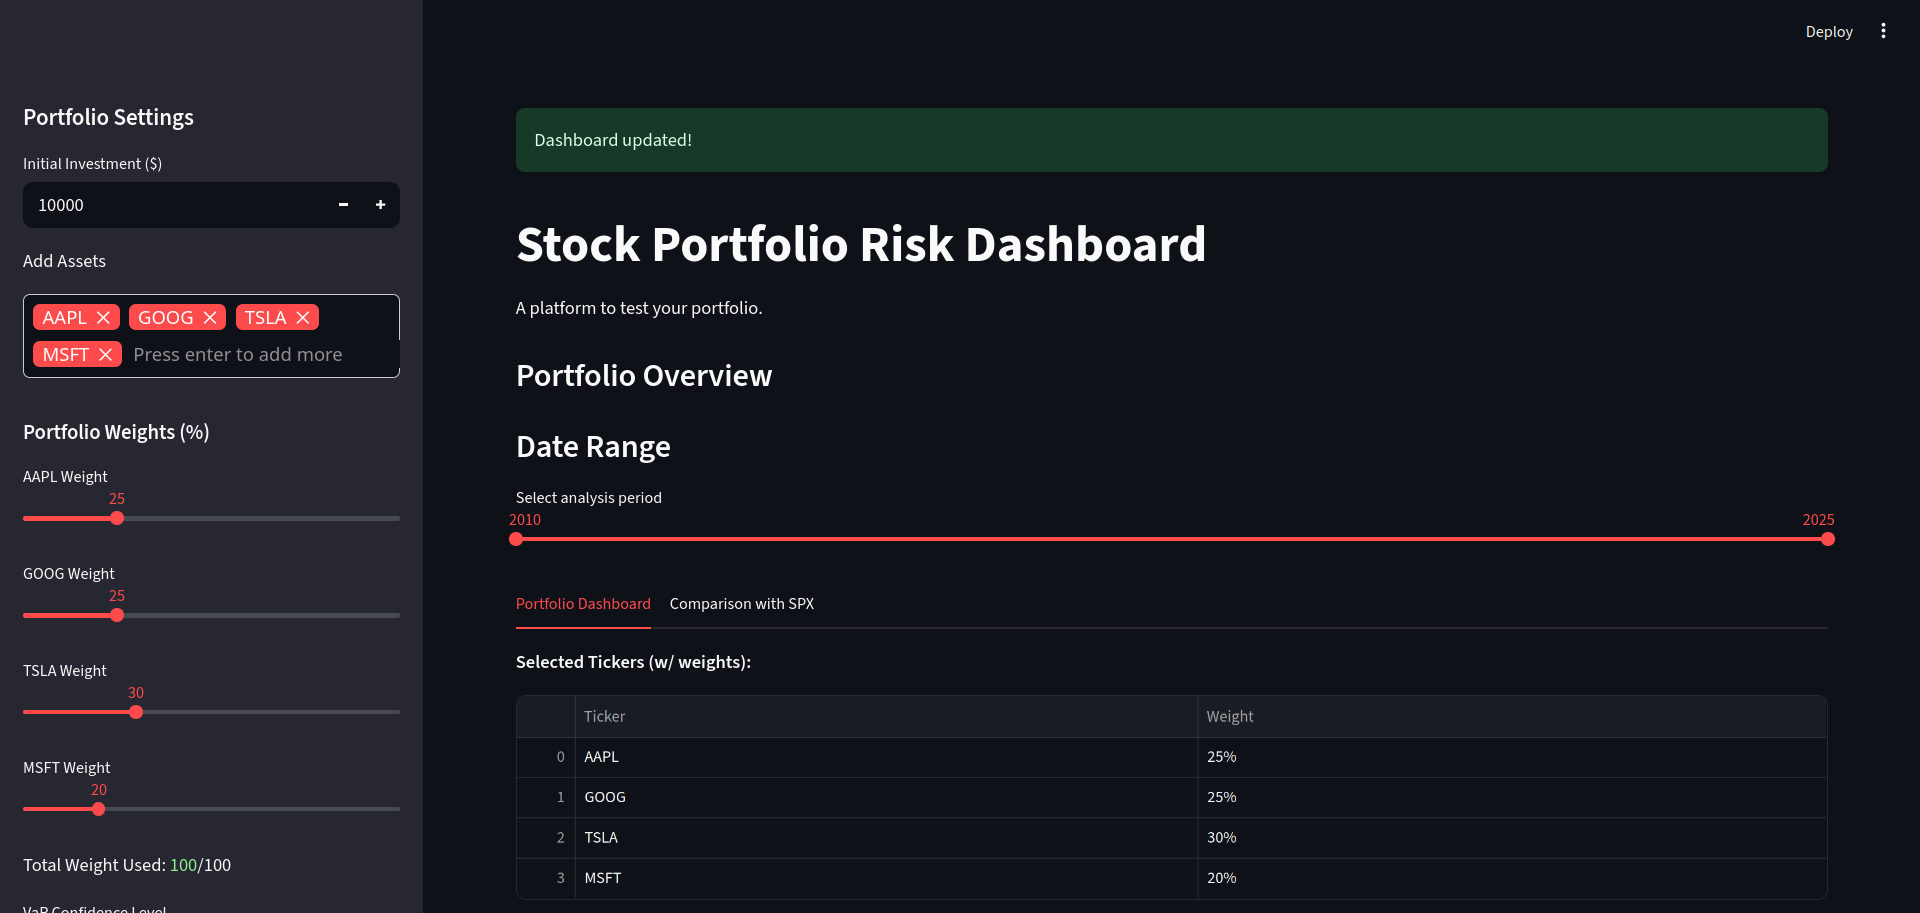
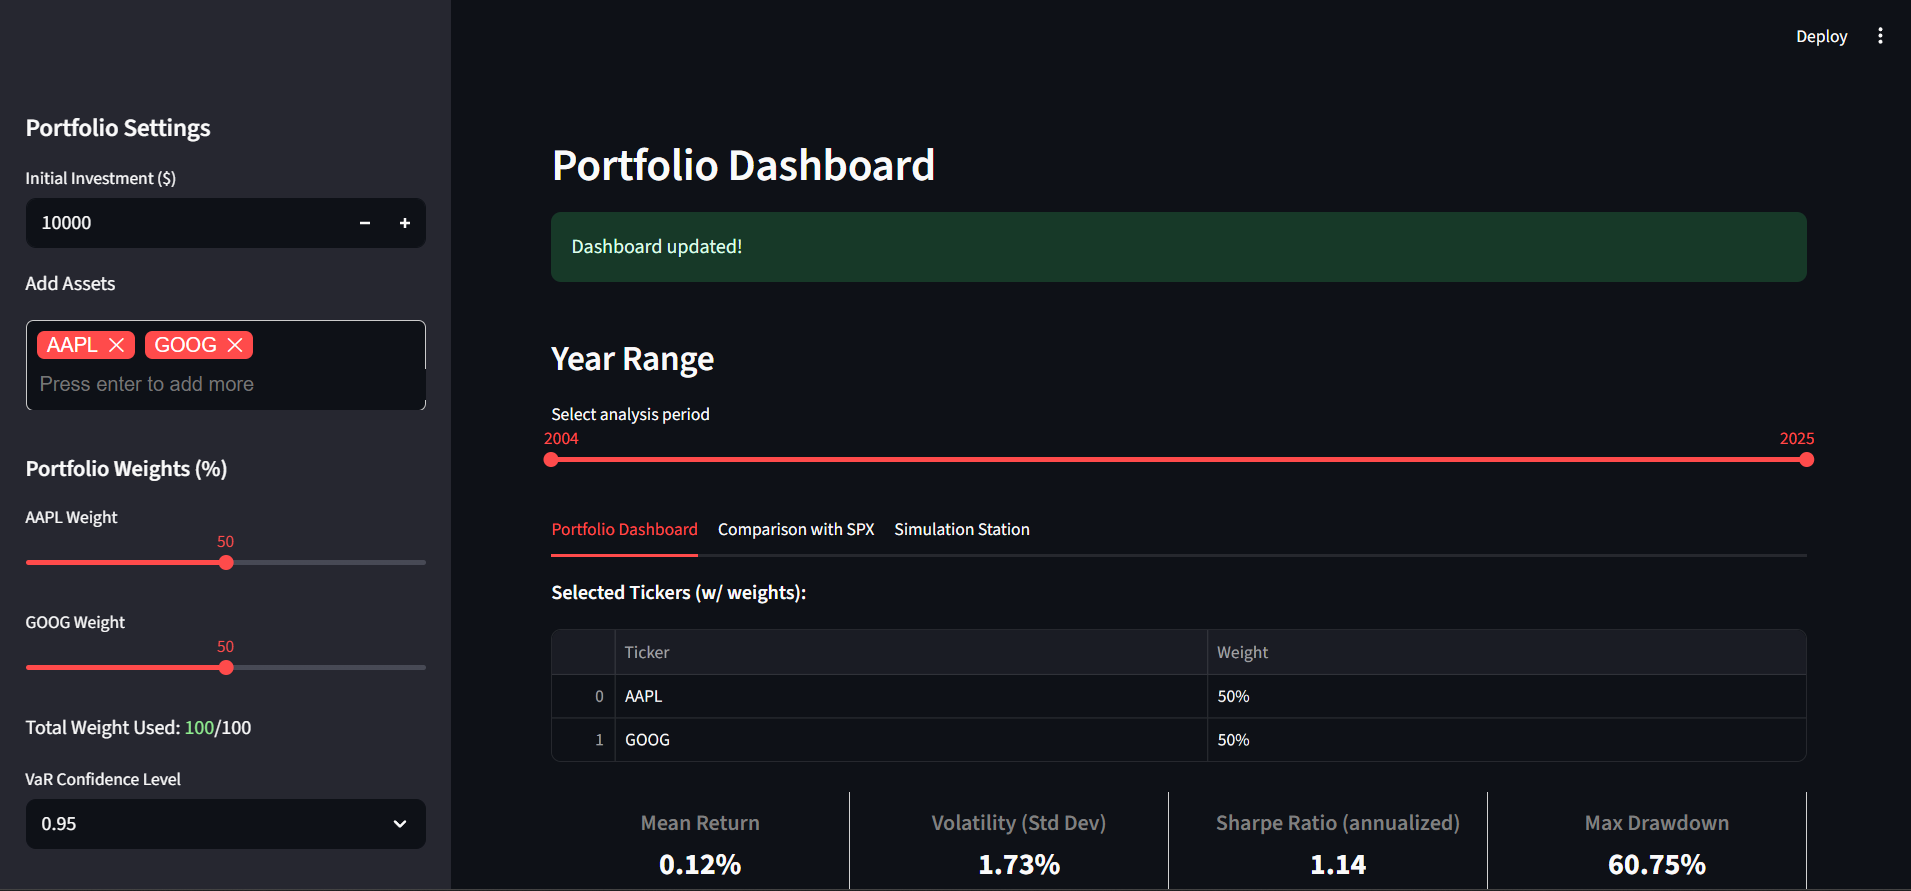
Updated readme and images

diff --git a/README.md b/README.md
@@ -2,10 +2,16 @@
 
 ## Overview
 
-The Portfolio Risk Dashboard is an interactive web-based tool built using Streamlit, enabling users to analyze and visualize portfolio risk metrics, volatility trends, and Value-at-Risk (VaR) estimates.
-Users can construct portfolios, allocate custom weights, and benchmark performance against the S&P 500 (SPX).  
+# Portfolio Risk Dashboard
 
-This project demonstrates the intersection of data science and financial risk analytics which is valuable for quantitative analysts, risk modelers, or financial data scientists.  
+The **Portfolio Risk Dashboard** is an interactive web-based tool built using **Streamlit**, enabling users to analyze and visualize portfolio risk metrics, volatility trends, and **Value-at-Risk (VaR)** estimates. Users can construct portfolios, allocate custom weights, and benchmark performance against the **S&P 500 (SPX)**. Additionally, the dashboard includes a **Monte Carlo simulation** feature that helps identify the **optimal portfolio weights** for a given number of simulations, allowing users to explore numerous portfolio combinations and determine allocations that maximize returns while managing risk.  
+
+
+This project demonstrates the intersection of **data science** and **financial risk analytics**, providing value for quantitative analysts, risk modelers, and financial data scientists.  
+
+## New Feature: Monte Carlo Portfolio Optimization
+A **Monte Carlo simulation** has been added to identify the **optimal portfolio weights** for a given number of simulations. This enhancement allows users to explore numerous portfolio combinations and determine the weight allocation that maximizes returns while managing risk.
+
 
 
 ## Key Features
@@ -34,16 +40,19 @@ Providing a visual overview to understand the plots better.
 Analyze using a specific historical time windows.
 
 ## Preview
+### NEWEST ADDITION!. Simulation Station Tab
+![Main Dashboard](assets/images/tab3.png)
+
 ### 1. Main Dashboard
 ![Main Dashboard](assets/images/tab1-1.png)
 
-### 2. Portfolio Risk Metrics
-![Risk Metrics](assets/images/tab2-1.png)
+### 2. Charts in Dashboard
+![Risk Metrics](assets/images/tab1-2.png)
 
-### 3. Charts from Main Dashboard
-![Main Charts](assets/images/tab1-4.png)
+### 3. S&P 500 Comparison Tab (Part 1)
+![Main Charts](assets/images/tab2-1.png)
 
-### 4. Charts from Portfolio vs S&P 500 (Second Tab)
+### 4. S&P 500 Comparison Tab (Part 2)
 ![Compare Charts](assets/images/tab2-2.png)
 
 ## Tech Stacks
@@ -64,19 +73,25 @@ portfolio-risk-dashboard/
 │   ├── data_fetch.py          # Data loading and cleaning
 │   ├── metrics.py             # Financial & risk computation functions
 │
+├── tabs/
+│   ├── portfolio_dashboard.py          # Portfolio Tab Dashboard
+│   ├── spx_comparison.py               # SPX Comparison Dashboard
+│   ├── simulation_station.py           # Simulation Station Dashboard
+│
 ├── app.py                     # Main Streamlit application
 ├── requirements.txt           # Python dependencies
 ├── README.md                  # Project documentation
 └── assets/                    # Content for README placeholders
 ```
 
-## 🧠 Concepts Demonstrated
+## 🧠 Features
 - Portfolio optimization and performance measurement
 - Risk assessment through VaR / CVaR / drawdown analysis
 - Sharpe ratio & volatility tracking
 - Rolling window volatility estimation
 - Time-series data manipulation using pandas MultiIndex
 - Comparative benchmarking against market indices
+- Monte Carlo Simulation for portfolio optimization
 
 ## Included Charts
 - 📈 Portfolio Cumulative Returns
